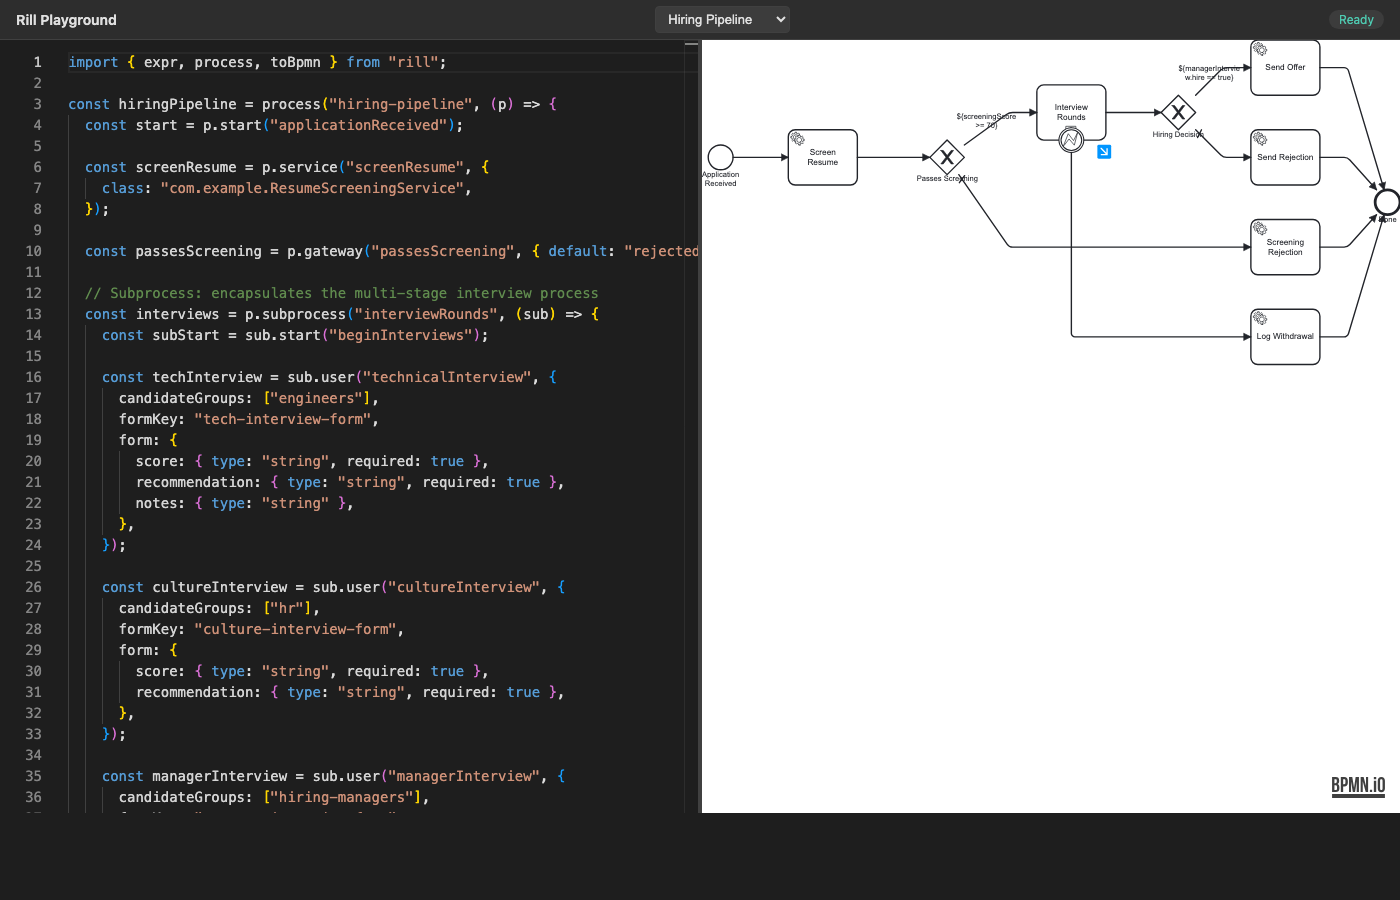
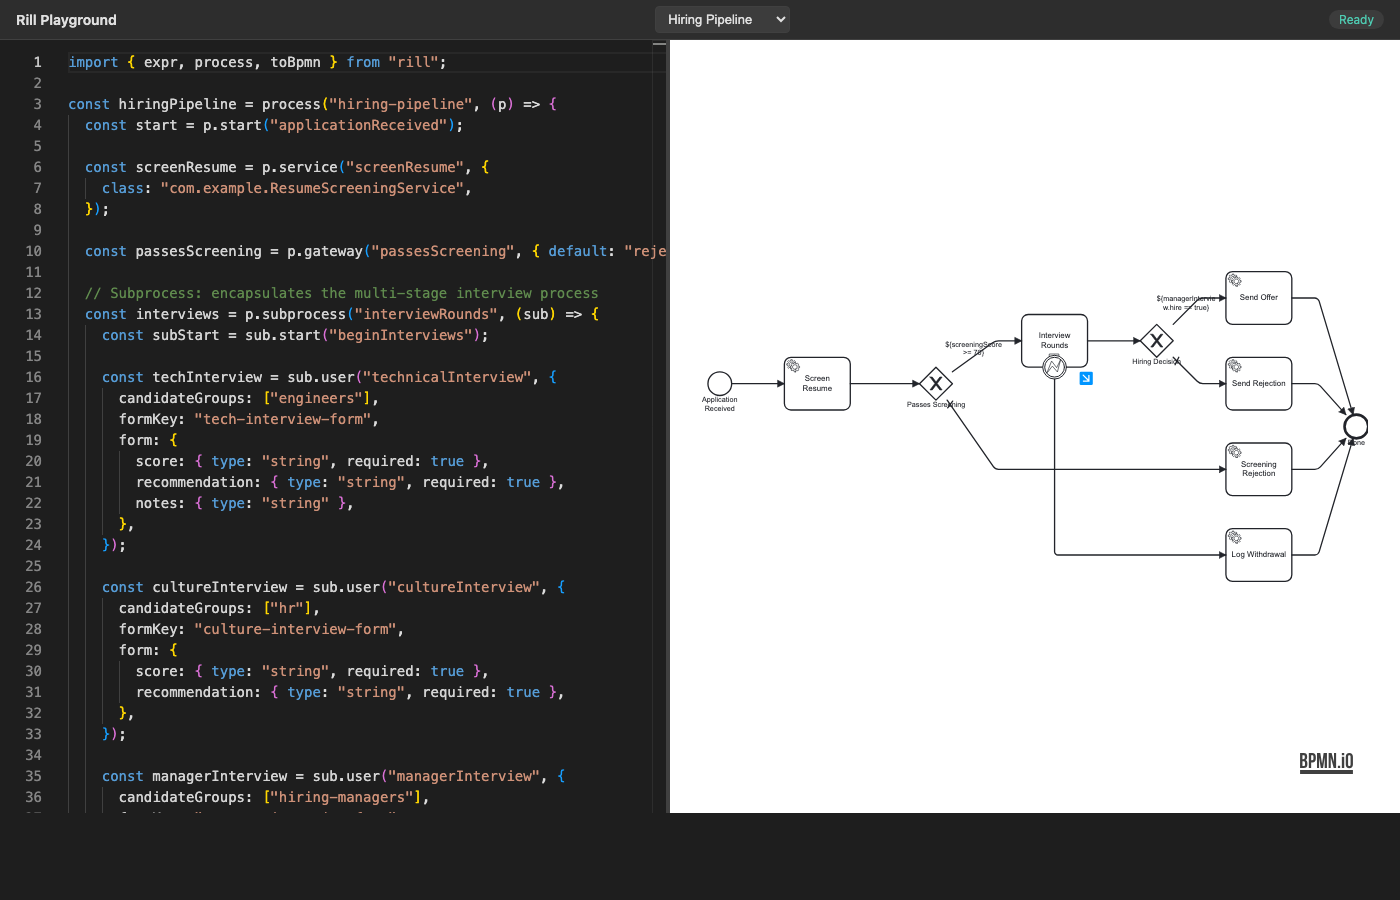
Center BPMN diagram vertically with padding in playground
Add padding around the diagram panel and manually adjust the bpmn-js
viewbox after fit-viewport to vertically center the rendered diagram.
Update screenshots to reflect the improved layout.

diff --git a/playground/src/renderer.ts b/playground/src/renderer.ts
@@ -13,8 +13,21 @@ export async function renderDiagram(xml: string): Promise<void> {
   const layoutedXml = layoutWithDagre(xml);
   await viewer.importXML(layoutedXml);
 
-  const canvas = viewer.get("canvas") as { zoom(action: string): void };
+  const canvas = viewer.get("canvas") as {
+    zoom(action: string): void;
+    viewbox(): { x: number; y: number; width: number; height: number; inner: { x: number; y: number; width: number; height: number } };
+    viewbox(box: { x: number; y: number; width: number; height: number }): void;
+  };
   canvas.zoom("fit-viewport");
+
+  // Center the diagram vertically within the viewport
+  const vb = canvas.viewbox();
+  const contentH = vb.inner.height;
+  const viewH = vb.height;
+  if (contentH < viewH) {
+    const offsetY = vb.inner.y - (viewH - contentH) / 2;
+    canvas.viewbox({ ...vb, y: offsetY });
+  }
 }
 
 // --- Element sizes ---

diff --git a/playground/src/main.ts b/playground/src/main.ts
@@ -9,6 +9,7 @@ import { EXAMPLES, EXAMPLE_KEYS } from "./examples";
 
 const editorPanel = document.getElementById("editor-panel")!;
 const diagramPanel = document.getElementById("diagram-panel")!;
+const diagramContainer = document.getElementById("diagram-container")!;
 const errorPanel = document.getElementById("error-panel")!;
 const statusEl = document.getElementById("status")!;
 const exampleSelect = document.getElementById("example-select") as HTMLSelectElement;
@@ -81,7 +82,7 @@ divider.addEventListener("mousedown", (e) => {
 });
 
 // Initialize
-initRenderer(diagramPanel);
+initRenderer(diagramContainer);
 
 const debouncedUpdate = debounce(
   (code: string) => { update(code); },

diff --git a/playground/index.html b/playground/index.html
@@ -16,7 +16,9 @@
     <div id="panels">
       <div id="editor-panel"></div>
       <div id="divider"></div>
-      <div id="diagram-panel"></div>
+      <div id="diagram-panel">
+        <div id="diagram-container"></div>
+      </div>
     </div>
     <div id="error-panel" class="hidden"></div>
     <script type="module" src="/src/main.ts"></script>

diff --git a/playground/styles.css b/playground/styles.css
@@ -93,6 +93,15 @@ html, body {
   min-width: 200px;
   overflow: hidden;
   background: #fff;
+  display: flex;
+  align-items: center;
+  justify-content: center;
+  padding: 24px 32px;
+}
+
+#diagram-container {
+  width: 100%;
+  height: 100%;
 }
 
 #error-panel {
